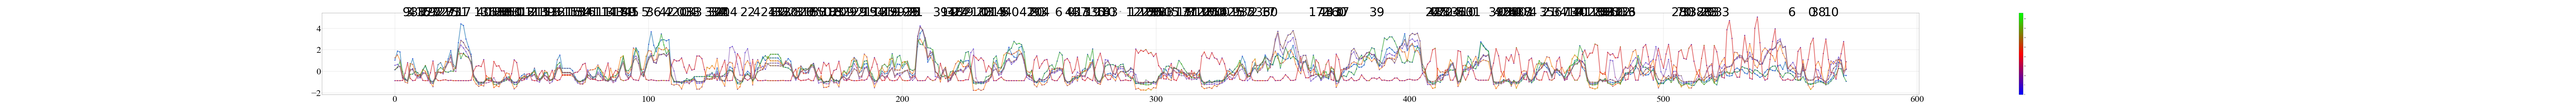
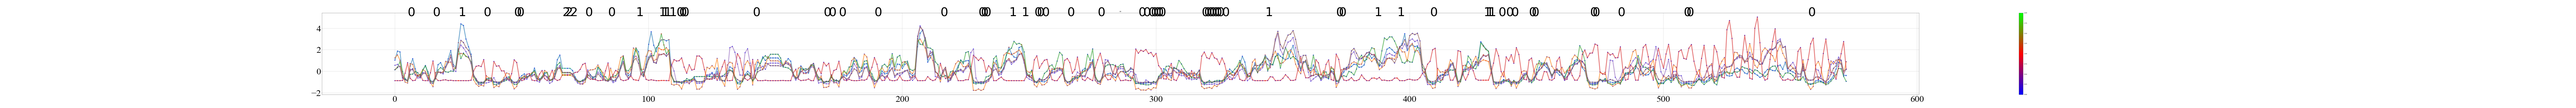
modify similarity to accumulate cosine. uses each time's dimension as vector's element, 2 vector's cosine similarity 's' then will made a transform v=e^（s-1）,then v=4*（v-1）. we uses v as the distance between 2 vector.

Changed region(s): [[0.1556, 0.0571, 0.7158, 0.1714]]

diff --git a/segment_mode.py b/segment_mode.py
@@ -264,6 +264,7 @@ class segment_mode(object):
         
         #get all sub
         w=self.min_len
+        #attention that w =1 ,would not use the min_len
         w=1
         for i in range(len(self.data_sign)):
             start=i
@@ -290,7 +291,8 @@ class segment_mode(object):
                 if s2!=s1:
                     sub1=self.data_sign[s1:e1]
                     sub2=self.data_sign[s2:e2]
-                    value=L2_distance(sub1,sub2)
+                    #value=L2_distance(sub1,sub2)
+                    value=new_cos(sub1,sub2)
                     #range is(-1,1)
                     #closer to one ,more similar
                     #self.sub_cos[(s1,e1,s2,e2)]=value
@@ -719,7 +721,7 @@ def show_rules_in_segment_mode(seg_dict,rule,rulenum,width=20):
         loc_data=[]
         name=k[0]
         start_name[name]=1
-        temp_color=t_array_dict[name]
+        temp_color=[120 for i in t_array_dict[name]]
         y_pos=max(seg_dict[name])
         key_list=y_pos.get_attr()
         y_pos=max([y_pos.get_by_attr(k) for k in key_list])
@@ -731,14 +733,14 @@ def show_rules_in_segment_mode(seg_dict,rule,rulenum,width=20):
             loc_data.append([(i,y_pos),str(believe)])
             
             for j in range(0,width):
-                temp_color[i+j]=believe
+                temp_color[min(i+j,len(temp_color)-1)]=int(believe)
         t_array_dict[name]=temp_color    
         loc_dict[name]=loc_data
     for k in end_array:
         loc_data=[]
         name=k[0]
         end_name[name]=1
-        temp_color=t_array_dict[name]
+        temp_color=[120 for i in t_array_dict[name]]
         y_pos=max(seg_dict[name])
         key_list=y_pos.get_attr()
         y_pos=max([y_pos.get_by_attr(k) for k in key_list])
@@ -746,7 +748,7 @@ def show_rules_in_segment_mode(seg_dict,rule,rulenum,width=20):
         for i in k[1:]:
             loc_data.append([(i,y_pos),str(believe)])
             for j in range(0,width):
-                temp_color[i+j]=believe
+                temp_color[min(i+j,len(temp_color)-1)]=int(believe)
         t_array_dict[name]=temp_color
         loc_dict[name]=loc_data
         
@@ -764,8 +766,10 @@ def show_rules_in_segment_mode(seg_dict,rule,rulenum,width=20):
         elif name in end_name:
             temp_title='end: '+ name
         if name in loc_dict:
+            print (t_array)
             draw_pic.draw_pic( y_array,t_array,x_array,save_name=outputname,title=temp_title,text_data=loc_dict[name],y_is_multi=True)
         else:
+            print (t_array)
             draw_pic.draw_pic( y_array,t_array,x_array,save_name=outputname,title=temp_title,y_is_multi=True)
         
         
@@ -822,12 +826,12 @@ if __name__=='__main__':
         co_seg=segment_mode(7,8, multi_dimen_seg,'co')
         
         #finding best dc
-        co_seg.dc_factor=0.01
+        co_seg.dc_factor=0.013
         step=0.001
         best_score=0
         best_dc=0
         best_co_seg=0
-        for i in range(10):
+        for i in range(1):
             co_seg.slide_cos_search()
             co_seg.density_clu()
             score=len(co_seg.inner_clu)*co_seg.min_delta**2
@@ -846,8 +850,8 @@ if __name__=='__main__':
 #        print (co_sequence)
     print (time.time(),'interval:',time.time()-start)
     
-    '''
-    ftree=FP_tree(2,0.4,4)
+    
+    ftree=FP_tree(0.01,0.3,2,8)
     ftree.add_sequence(co_sequence)
     ftree.structure_sub_tree()
     ftree.get_associate_rule()
@@ -862,7 +866,7 @@ if __name__=='__main__':
         if i>10:
             break
         i=i+1
-    '''
+    
     pass
     '''
         no2_list=site.no2list

diff --git a/FP_tree_Node.py b/FP_tree_Node.py
@@ -24,7 +24,7 @@ class FT_tree_Node(object):
         self.this_node_time=now
         pass
     def show(self,index=1):
-        print(' '*index,self.name,' ,[',self.key,'] this:[',self.this_node_time,'] len:',self.count)
+        print(' '*index,self.name,' ,[',self.this_node_time,'] len:',self.count)
         for child in self.child.values():
             child.show(index+1)
     pass
